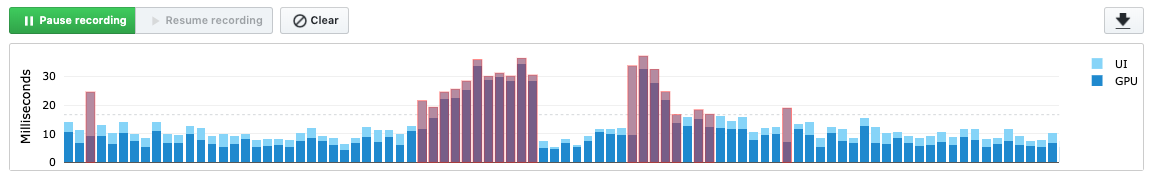
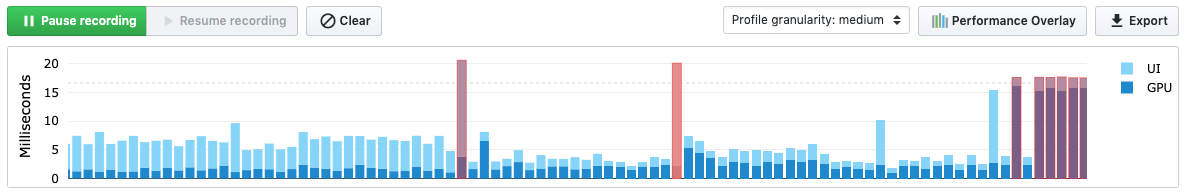
Add DevTools docs for Performance Page. (#2835)
* Add DevTools docs for Performance Page.

* Review comments.

* Add section on profile granularity.

* update screenshots

* Review comments.

diff --git a/src/docs/development/tools/devtools/performance.md b/src/docs/development/tools/devtools/performance.md
@@ -1,0 +1,110 @@
+---
+title: Using the Performance view
+description: Learn how to use the DevTools performance view.
+---
+
+## What is it?
+
+The performance view allows you to record and profile a session from your Dart application.
+
+{{site.alert.note}}
+  **If you are running a Flutter application, use a profile build to analyze performance.**
+  Cpu profiles are not indicative of release performance unless your Flutter application is
+  run in profile mode.
+{{site.alert.end}}
+
+## CPU Profiler
+
+Start recording a CPU profile by clicking Record. When you are done recording, click Stop. At this
+point, CPU profiling data is pulled from the VM and displayed in the profiler views (Call Tree,
+Bottom Up, and Flame Chart).
+
+### Profile granularity
+
+The default rate at which the VM collects CPU samples is 1 sample / 250 μs.
+This is selected by default on the Performance view as "Profile granularity: medium".
+This rate can be modified via the selector at the top of the page. The sampling rates
+for low, medium, and high granularity are 1 / 50 μs, 1 / 250 μs, and 1 / 1000 μs,
+respectively. It is important to know the trade-offs of modifying this setting.
+
+A **higher granularity** profile has a higher sampling rate, and therefore yields
+a fine-grained CPU profile with more samples. This may also impact performance of
+your app since the VM is being interrupted more often to collect samples.
+This also causes the VM's CPU sample buffer to overflow more quickly. The VM has
+limited space where it can store CPU sample information. At a higher sampling
+rate, the space fills up and begins to overflow sooner than it would have if a
+lower sampling rate was used. This means that you may not have access to CPU samples
+from the beginning of the recorded profile.
+
+A **lower granularity** profile has a lower sampling rate, and therefore
+yields a coarse-grained CPU profile with fewer samples. However, this impacts your
+app's performance less. The VM's sample buffer also fills more slowly, so you can see
+CPU samples for a longer period of app run time. This means that you have a better
+chance of viewing CPU samples from the beginning of the recorded profile.
+
+
+### Flame chart
+
+This tab of the profiler shows CPU samples for the recorded duration.
+This chart should be viewed as a top-down stack trace, where the
+top-most stack frame calls the one below it. The width of each stack
+frame represents the amount of time it consumed the CPU. Stack frames
+that consume a lot of CPU time may be a good place to look for possible
+performance improvements.
+
+![Screenshot of a flame chart]({% asset tools/devtools/cpu_profiler_flame_chart.png @path %}){:width="100%"}
+
+### Call tree
+
+The call tree view shows the method trace for the CPU profile.
+This table is a top-down representation of the profile,
+meaning that a method can be expanded to show its _callees_.
+
+<dl markdown="1">
+<dt markdown="1">**Total time**</dt>
+<dd>Time the method spent executing its own code as well as
+    the code for its callees.</dd>
+<dt markdown="1">**Self time**</dt>
+<dd>Time the method spent executing only its own code.</dd>
+<dt markdown="1">**Method**</dt>
+<dd>Name of the called method.</dd>
+<dt markdown="1">**Source**</dt>
+<dd>File path for the method call site.</dd>
+</dl>
+
+![Screenshot of a call tree table]({% asset tools/devtools/cpu_profiler_call_tree.png @path %}){:width="100%"}
+
+### Bottom up
+
+The bottom up view shows the method trace for the CPU profile but,
+as the name suggests, it's a bottom-up representation of the profile.
+This means that each top-level method in the table is actually the
+last method in the call stack for a given CPU sample (in other words,
+it's the leaf node for the sample).
+
+In this table, a method can be expanded to show its _callers_.
+
+<dl markdown="1">
+<dt markdown="1">**Total time**</dt>
+<dd markdown="1">Time the method spent executing its own code
+    as well as the code for its callee.
+
+<dt markdown="1">**Self time**</dt>
+<dd markdown="1">For top-level methods in the bottom-up tree
+    (leaf stack frames in the profile), this is the time the
+    method spent executing only its own code. For sub nodes
+    (the callers in the CPU profile), this is the self time
+    of the callee when being called by the caller.
+    In the following example, the self time of the caller
+    `Element.updateSlotForChild.visit()` is equal to the self time of
+    the callee `[Stub] OneArgCheckInLineCache` when being called by
+    the caller.
+
+<dt markdown="1">**Method**</dt>
+<dd markdown="1">Name of the called method.
+
+<dt markdown="1">**Source**</dt>
+<dd markdown="1">File path for the method call site.
+
+![Screenshot of a bottom up table]({% asset tools/devtools/cpu_profiler_bottom_up.png @path %}){:width="100%"}
+

diff --git a/src/docs/development/tools/devtools/timeline.md b/src/docs/development/tools/devtools/timeline.md
@@ -96,9 +96,32 @@ described in the next section.
 ## CPU profiler
 
 This section shows CPU profiling information for a specific event
-from the frame events chart (Build, Layout, Paint, etc). 
+from the frame events chart (Build, Layout, Paint, etc).
 
-### CPU flame chart
+### Profile granularity
+
+The default rate at which the VM collects CPU samples is 1 sample / 250 μs.
+This is selected by default on the Timeline view as "Profile granularity: medium".
+This rate can be modified via the selector at the top of the page. The sampling rates
+for low, medium, and high granularity are 1 / 50 μs, 1 / 250 μs, and 1 / 1000 μs,
+respectively. It is important to know the trade-offs of modifying this setting.
+
+A **higher granularity** profile has a higher sampling rate, and therefore yields
+a fine-grained CPU profile with more samples. This may also impact performance of
+your app since the VM is being interrupted more often to collect samples.
+This also causes the VM's CPU sample buffer to overflow more quickly. The VM has
+limited space where it can store CPU sample information. At a higher sampling
+rate, the space fills up and begins to overflow sooner than it would have if a
+lower sampling rate was used. This means that you may not have access to CPU samples
+for frames in the beginning of the timeline.
+
+A **lower granularity** profile has a lower sampling rate, and therefore
+yields a coarse-grained CPU profile with fewer samples. However, this impacts your
+app's performance less. The VM's sample buffer also fills more slowly, so you can see
+CPU samples for a longer period of app run time. This means that you have a better
+chance of viewing CPU samples from earlier frames in the timeline.
+
+### Flame chart
 
 This tab of the profiler shows CPU samples for the selected frame
 event (such as Layout in the following example). This chart should
@@ -108,7 +131,7 @@ amount of time it consumed the CPU. Stack frames that consume a lot
 of CPU time may be a good place to look for possible performance
 improvements.
 
-![Screenshot of a flame chart]({% asset tools/devtools/cpu_profiler_flame_chart.png @path %}){:width="100%"}
+![Screenshot of a flame chart]({% asset tools/devtools/timeline_cpu_profiler_flame_chart.png @path %}){:width="100%"}
 
 ### Call tree
 
@@ -128,7 +151,7 @@ meaning that a method can be expanded to show its _callees_.
 <dd>File path for the method call site.</dd>
 </dl>
 
-![Screenshot of a call tree table]({% asset tools/devtools/cpu_profiler_call_tree.png @path %}){:width="100%"}
+![Screenshot of a call tree table]({% asset tools/devtools/timeline_cpu_profiler_call_tree.png @path %}){:width="100%"}
 
 ### Bottom up
 
@@ -151,7 +174,7 @@ In this table, a method can be expanded to show its _callers_.
     method spent executing only its own code. For sub nodes
     (the callers in the CPU profile), this is the self time
     of the callee when being called by the caller.
-    Using the following example, the self time of the caller
+    In the following example, the self time of the caller
     `Element.updateSlotForChild.visit()` is equal to the self time of
     the callee `[Stub] OneArgCheckInLineCache` when being called by
     the caller.
@@ -162,7 +185,7 @@ In this table, a method can be expanded to show its _callers_.
 <dt markdown="1">**Source**</dt>
 <dd markdown="1">File path for the method call site.
 
-![Screenshot of a bottom up table]({% asset tools/devtools/cpu_profiler_bottom_up.png @path %}){:width="100%"}
+![Screenshot of a bottom up table]({% asset tools/devtools/timeline_cpu_profiler_bottom_up.png @path %}){:width="100%"}
 
 ## Import and export
 
